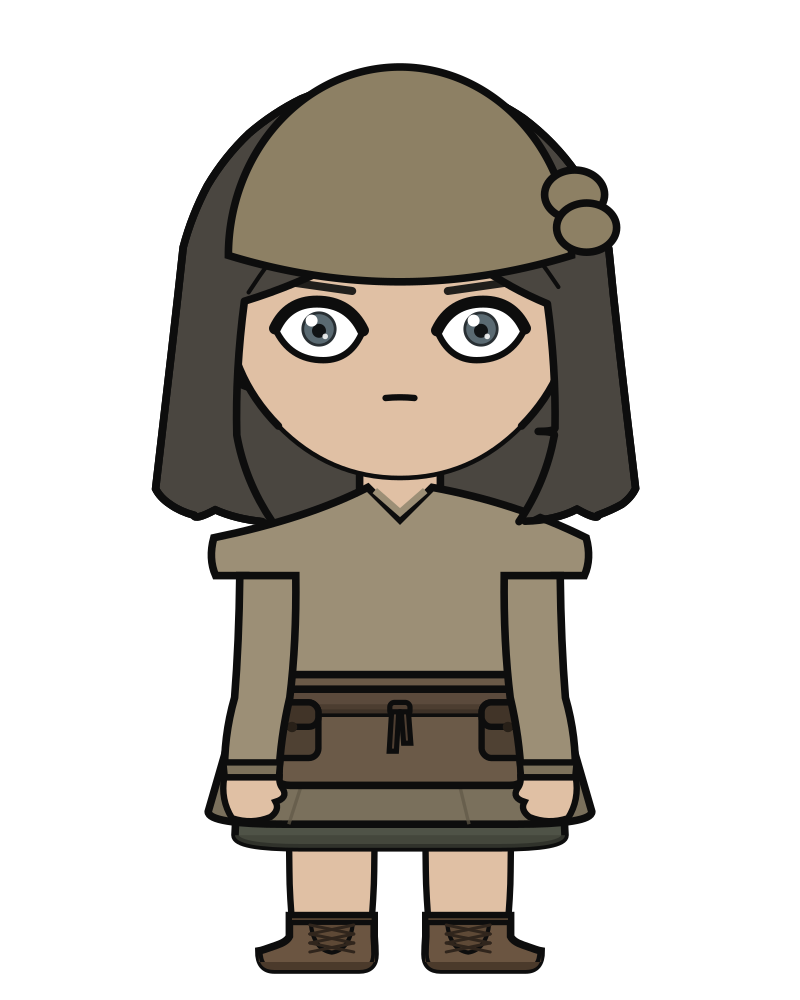
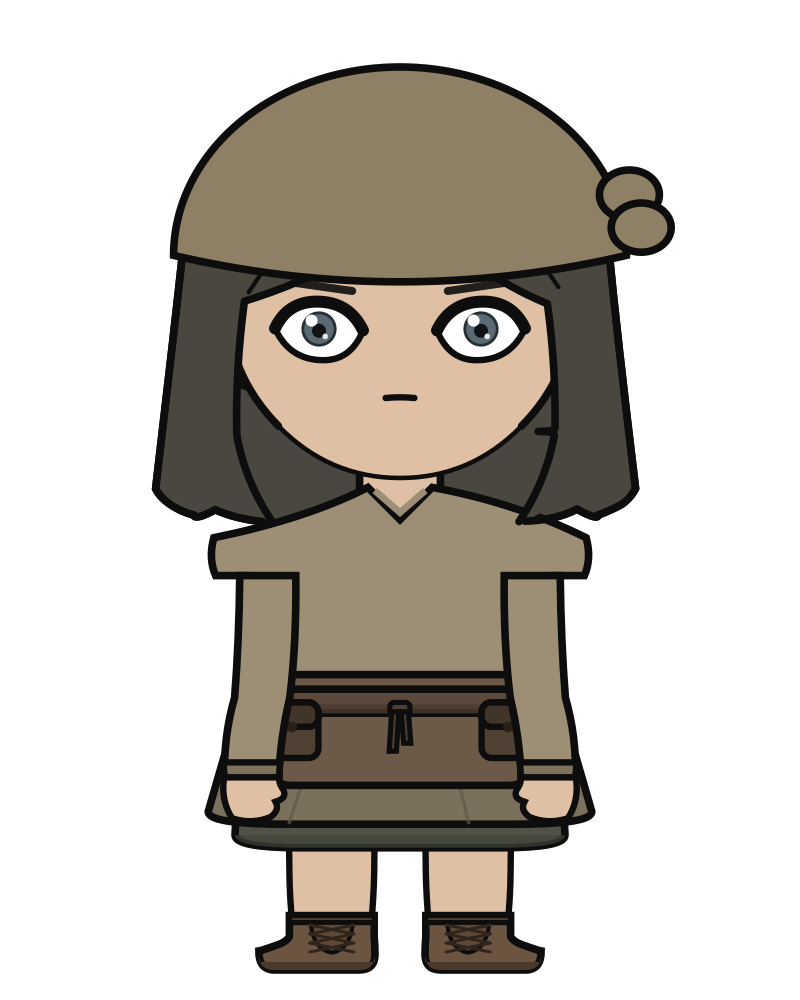
fix chiyo's cap

Changed region(s): [[0.5312, 0.062, 0.8438, 0.279], [0.1875, 0.062, 0.4688, 0.279]]

diff --git a/src/anime_character_creator/character.py b/src/anime_character_creator/character.py
@@ -2053,6 +2053,16 @@ def _tail_tie(sk: Skeleton) -> tuple[float, float]:
     return sk.head_cx + sk.head_r * 0.62, sk.head_cy - sk.head_r * 0.62
 
 
+# Where the cloth's lower edge meets the side of the head, in head radii: just
+# above the ear, which leaves a band of hair showing under it at the temples.
+_SCARF_EDGE_Y = -0.26
+# How far outside the hair the cloth sits, as a multiple of the cut's own half
+# width. Cloth has a thickness and a hem, so a scarf tied over hair stands very
+# slightly proud of it; at exactly 1.00 the two outlines land on each other and
+# read as one line, which says the cap is painted on.
+_SCARF_CLEAR = 1.04
+
+
 def _headscarf(sk: Skeleton, p: CharacterParams) -> str:
     """A cloth tied over the crown, with a knot at the side.
 
@@ -2074,11 +2084,19 @@ def _headscarf(sk: Skeleton, p: CharacterParams) -> str:
     cx, cy, r = sk.head_cx, sk.head_cy, sk.head_r
     color = p.outfit.headscarf_color
     sw = _stroke_w(sk)
-    b = sk.build
-    # Where the cloth's lower edge meets the side of the head: just above the
-    # ear, which leaves a band of hair showing under it at the temples.
-    edge_y = -0.26
-    x_edge = _head_edge_x(edge_y, b)
+    edge_y = _SCARF_EDGE_Y
+    # **The hair's width, not the skull's.** This part already knew the rule and
+    # applied it in one axis only: `crown` below clears the cut rather than the
+    # bone, and this line took the bone. On a long cut that is a fifth of a head
+    # radius of hair standing outside the cloth tied over it, so the two outlines
+    # cross and the cap reads as a shape painted on the hair rather than as
+    # something put on. The owner's report on 2026-08-09.
+    #
+    # The height this is read at barely matters, which is worth knowing before
+    # anyone moves `edge_y`: across the whole band from -0.36 to -0.16 the cut's
+    # silhouette runs 1.217 to 1.248, because the falls are near vertical where
+    # they pass the temple. The skull over the same band moves twice as far.
+    x_edge = _hair_edge_x(edge_y, sk, p) * _SCARF_CLEAR
     # It has to clear the hair, not the skull, or it is buried the way the first
     # topknot was. The cuts top out near -1.28 head radii, and a scarf tied over
     # one sits on it rather than replacing it.
@@ -2088,7 +2106,7 @@ def _headscarf(sk: Skeleton, p: CharacterParams) -> str:
     # its endpoint's height runs flat into that endpoint, and every arrangement
     # of two or four of them that fixes the top breaks the sides. An arc states
     # the dome directly and cannot be flat anywhere.
-    rx = x_edge * 1.02 * r
+    rx = x_edge * r
     ry = (edge_y - crown) * r
     left_x = cx - rx
     right_x = cx + rx
@@ -3680,6 +3698,48 @@ def _head_edge_x(y: float, build: float) -> float:
             return prev[0] + (cur[0] - prev[0]) * f
         prev = cur
     return prev[0]
+
+
+def _hair_edge_x(y: float, sk: Skeleton, p: CharacterParams) -> float:
+    """How far off centre the *silhouette* sits at height `y`, in head radii.
+
+    The hair's own contour where the hair reaches that height, the skull's where
+    it does not, so a caller gets the outline a viewer actually sees rather than
+    the bone under it. `_head_edge_x` answers the other question and the two are
+    a head radius apart at the temples on a long cut.
+
+    Which is the distinction three parts have now got wrong in the same
+    direction. A hat, a tie or a knot sized against the skull sits inside the
+    hair it is supposed to be on, and what it reads as is a shape painted on the
+    hair rather than an object placed over it.
+
+    The widest crossing rather than the first: the contour can cross a height
+    more than once, at a lock's edge or a notch, and what a garment has to clear
+    is the outermost of them.
+
+    Walks the mass's quadratics rather than taking the style's word for it, for
+    the reason `_head_edge_x` walks the skull's: a second formula agrees with the
+    drawing until somebody retunes one of them.
+    """
+    start, segments = HAIRSTYLES[p.hairstyle].mass(_hair_fall(sk, p))
+    widest = _head_edge_x(y, sk.build)
+    prev = start
+    for ctrl, end in segments:
+        here = prev
+        for i in range(1, 25):
+            t = i / 24
+            u = 1.0 - t
+            nxt = (
+                u * u * prev[0] + 2 * u * t * ctrl[0] + t * t * end[0],
+                u * u * prev[1] + 2 * u * t * ctrl[1] + t * t * end[1],
+            )
+            lo, hi = sorted((here[1], nxt[1]))
+            if lo <= y <= hi and nxt[1] != here[1]:
+                f = (y - here[1]) / (nxt[1] - here[1])
+                widest = max(widest, abs(here[0] + (nxt[0] - here[0]) * f))
+            here = nxt
+        prev = end
+    return widest
 
 
 def _jaw_track(y0: float, build: float, drop: float, inset: float, steps: int = 12) -> list[Point]:

diff --git a/tests/test_smoke.py b/tests/test_smoke.py
@@ -800,6 +800,41 @@ def test_the_moustache_is_thicker_than_the_line_that_draws_it(preset: str, build
     )
 
 
+@pytest.mark.parametrize("hairstyle", sorted(HAIRSTYLES))
+@pytest.mark.parametrize("build", sorted(BUILDS))
+def test_the_cap_covers_the_hair_it_is_tied_over(hairstyle: str, build: str) -> None:
+    """The cloth has to be at least as wide as the cut under it.
+
+    Sized against the skull it is a fifth of a head radius too narrow on a long
+    cut, so the hair stands outside the cloth tied over it, the two outlines
+    cross, and what it reads as is a shape painted on the hair rather than
+    something put on. That is the owner's report on 2026-08-09 and it is the
+    third part to make the same mistake: the tail and the knot were both sized
+    against the bone while sitting on the hair.
+
+    Every cut, not just the one wearer's, because a scarf is a garment and the
+    whole point of it being one is that anyone can put it on. Both builds,
+    because the hair and the skull do not change width together: `short_crop`
+    goes 1.28 to 1.00 across the range while the skull barely moves.
+
+    Read off the drawn arc rather than off the constant, so it fails if the
+    width goes back to being taken from `_head_edge_x`, which is the specific
+    regression worth catching.
+    """
+    p = replace(PRESETS["chiyo"], hairstyle=hairstyle)
+    sk = build_skeleton(heads=BUILDS[build], frame=p.frame)
+    d = re.search(r'd="([^"]+)"', character._headscarf(sk, p)).group(1)
+    rx = float(re.search(r"A ([\d.]+) ", d).group(1)) / sk.head_r
+    hair = character._hair_edge_x(character._SCARF_EDGE_Y, sk, p)
+    assert rx >= hair, (
+        f"the cap is {rx:.3f} head radii wide over {hairstyle} hair that is {hair:.3f} wide, "
+        f"so the cut stands outside the cloth tied over it"
+    )
+    # And still on the canvas. The dome now grows with the hair, so a longer or
+    # fuller cut moves it, and the failure at that end is a flat-sided cap.
+    assert sk.head_cx + rx * sk.head_r <= 400, f"the cap runs off the canvas at {rx:.3f}"
+
+
 def test_the_sheet_renders_and_stays_deterministic() -> None:
     p = sheet.SheetParams()
     svg = sheet.render_sheet(p)
